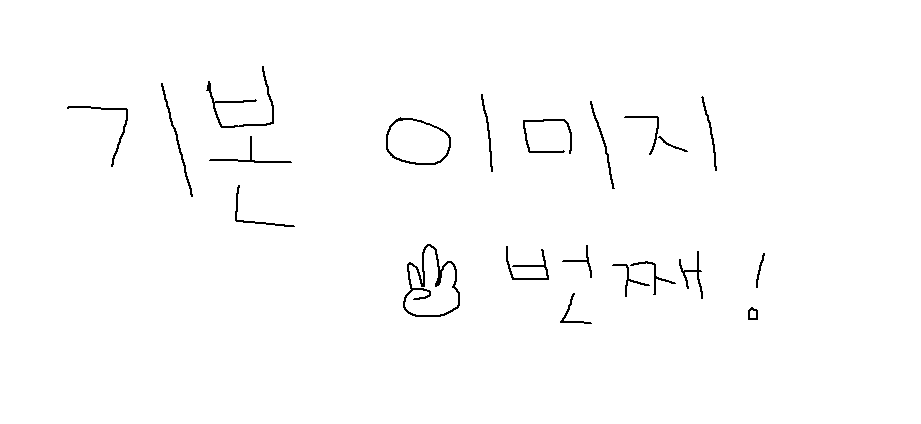
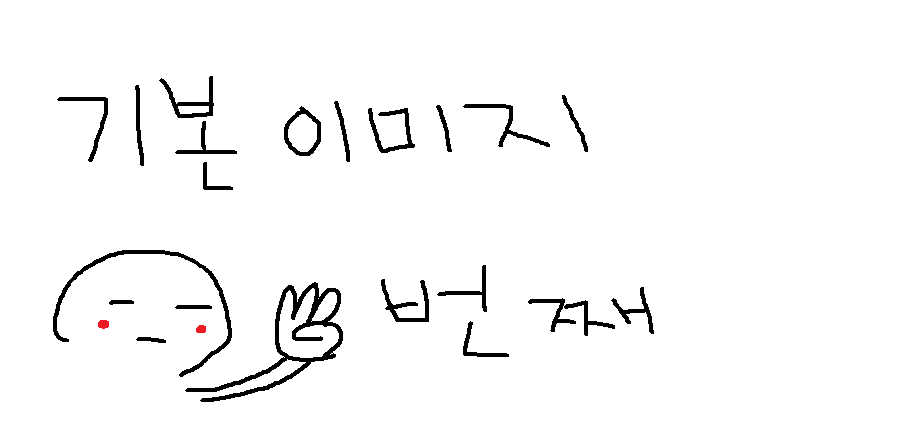
게시글 작성페이지 - 기본이미지들 추가

diff --git a/src/page/Write.jsx b/src/page/Write.jsx
@@ -1,16 +1,23 @@
+//해야할거
+//1.버튼css바꾸기
+//2.파일선택 input css
+//3.전체적인 배치 (padding,magin) 다시주기
+//4.모집분야 배치
 import { useState } from "react"
 import axios from "axios";
 import styled from "@emotion/styled";
 
 import QuillTestPage from "../TestCode/QuillTest";
-import DefaultImg from '../img/default.png'
+import DefaultImg from '../img/default.png';
+import TwoImg from '../img/two.png';
+import ThreeImg from '../img/three.png'
+import TestImg from '../img/test.png'
 
 const But=styled.button`
     width: ${(props)=>props.width|| "420px"};
     height: ${(props)=>props.width|| "30px"};
     background-color: ${(props)=>props.background_color|| "#0B666A"};
     color: white;
-
 `
 const WriteWrap=styled.div`
     margin: 0 auto;
@@ -65,6 +72,10 @@ const MainImg=styled.img`
     max-width:600px;
     height: 400px;
 `
+const SubImg=styled.img`
+    width: 230px;
+    height: 120px;
+`
 const SubmitBut=styled.button`
     display: block;
     color: green;
@@ -83,6 +94,8 @@ const Right=styled.div`
     width: 100%;
     display: flex;
     flex-direction:column;
+    justify-content: space-around;
+    /* margin-left: 8px; */
 `
 const ImgWrap=styled.div`
     display: flex;
@@ -101,6 +114,14 @@ const Top=styled.div`
 const DateInput=styled.input`
     width: 400px;
 `
+const ImgInput=styled.input`
+    position: absolute;
+    left: 50%;
+    /* width: 70px;
+    height: 50px;
+    border-radius: 50%; */
+    background-color: red;
+`
 function Write (){
 //모집분야
 const [Field,setField]=useState('');
@@ -108,8 +129,10 @@ const [Field,setField]=useState('');
 const [Personnel,setPersonnel]=useState('');
 //모집분야-추가버튼의 카운트
 const [Count,setCount]=useState(1);
-//프젝 기본 이미지
-const [Img,setImg]=useState(DefaultImg)
+//프젝 기본 이미지들
+const [Img,setImg]=useState([DefaultImg,TwoImg,ThreeImg,])
+//프젝 기본 이미지-탭
+const [Tab,setTab]=useState(0);
 
 
 const fieldHandling=(e)=>{
@@ -137,8 +160,11 @@ const PulsButton=()=>{
 
 //파일change
 const saveFileImg=(e)=>{ 
+    let arr=[];
+    // let copy=[...Img,...]
     setImg(URL.createObjectURL(e.target.files[0]));
     console.log(e.target.files[0]);
+    console.log((URL.createObjectURL(e.target.files[0])));
 }
 function list(){
     let arr=[];
@@ -175,20 +201,34 @@ function list(){
             <InputTitle placeholder="제목을 작성해주세요."></InputTitle>
             <Subtitle>사진</Subtitle>
             <ImgWrap>
+            {/* 메인 프로젝트 기본이미지 바뀌는 코드 */}
                 {
-                Img&& (
+                Img&&
+                Tab===0 ?(
                     <MainImg
-                    src={Img}
+                    src={Img[0]}
                     />
                     )
+                    :(Tab===1)?(
+                        <MainImg
+                    src={Img[1]}
+                    />
+                    ):(Tab===2)?(<MainImg
+                    src={Img[2]}
+                    />
+                    ):null
                 }
+                <ImgInput type="file" onChange={saveFileImg} onClick={()=>{setTab(4)}}></ImgInput>
                 <Right>
-                    <Select width="323px">
-                            <option value="">기본이미지1</option>
-                            <option value="">기본이미지2</option>
-                            <option value="">기본이미지3</option>
-                    </Select>
-                    <input type="file" onChange={saveFileImg}></input>
+                <a onClick={()=>{setTab(0)}}><SubImg src={Img[0]}></SubImg></a>
+                <a onClick={()=>{setTab(1)}}><SubImg src={Img[1]}></SubImg></a>
+                <a onClick={()=>{setTab(2)}}><SubImg src={Img[2]}></SubImg></a>
+                    {/* {
+                        Img.map((list,index)=>(
+                            <SubImg src={Img[index]}></SubImg>
+                        ))
+                    } */}
+                    {/* <input type="file" onChange={saveFileImg}></input> */}
                 </Right>
             </ImgWrap>
             <QuillTestPage/>
